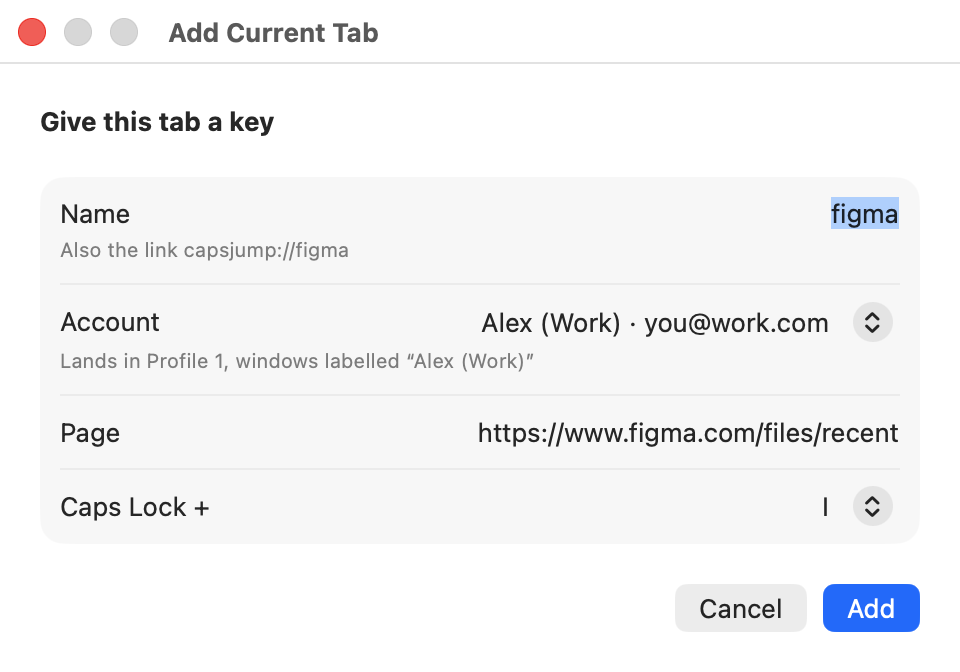
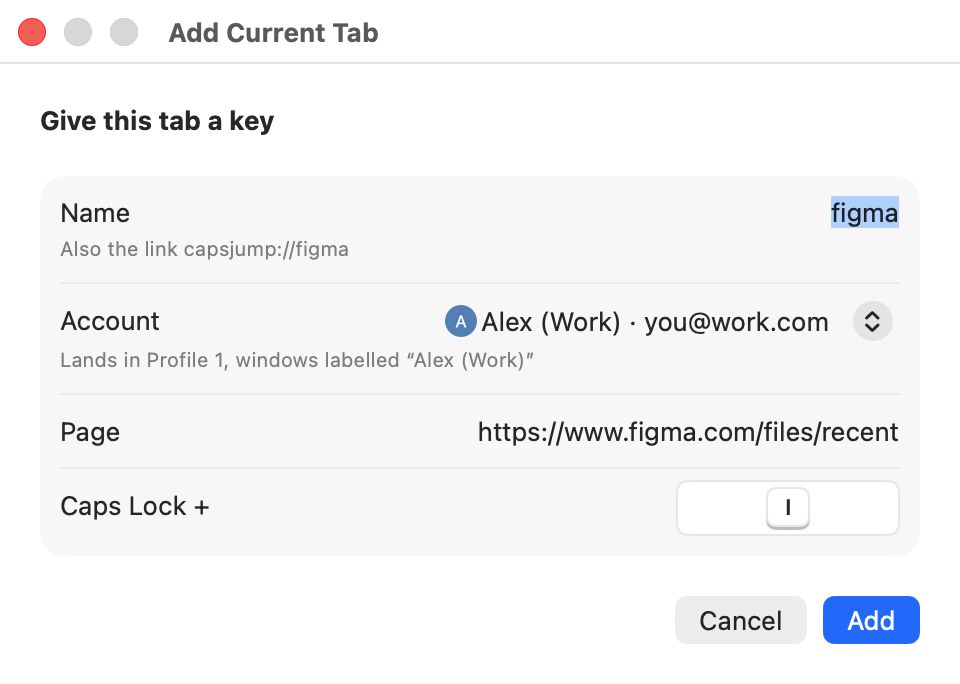
docs: the site and README show account pictures and the key field (#27)

diff --git a/site/index.html b/site/index.html
@@ -14,7 +14,7 @@
   <meta property="og:image" content="https://stigmer.github.io/capsjump/card.png">
   <meta property="og:image:width" content="1200">
   <meta property="og:image:height" content="630">
-  <meta property="og:image:alt" content="CapsJump's config window: every key as a keycap with the app's or the site's own icon and the site's account">
+  <meta property="og:image:alt" content="CapsJump's config window: every key as a keycap with the app's or the site's own icon and the account's picture, and the picked key's field waiting for a new key">
   <meta name="twitter:card" content="summary_large_image">
   <link rel="icon" href="icon.svg" type="image/svg+xml">
   <link rel="apple-touch-icon" href="icon.png">
@@ -80,7 +80,7 @@
       </article>
       <article>
         <h2>Windows</h2>
-        <p><kbd>Caps</kbd> + an arrow sends the front window to that half of the screen: <kbd>←</kbd> <kbd>→</kbd> <kbd>↑</kbd> <kbd>↓</kbd>. <kbd>Caps</kbd> + <kbd>F</kbd> and it goes big. Rather other keys? Pick them, or turn any off.</p>
+        <p><kbd>Caps</kbd> + an arrow sends the front window to that half of the screen: <kbd>←</kbd> <kbd>→</kbd> <kbd>↑</kbd> <kbd>↓</kbd>. <kbd>Caps</kbd> + <kbd>F</kbd> and it goes big. Rather other keys? Press the one you want, or turn any off.</p>
       </article>
       <article>
         <h2>Links</h2>
@@ -94,28 +94,28 @@
       <figure class="shot">
         <picture>
           <source media="(prefers-color-scheme: dark)" srcset="editor-keys-dark.png">
-          <img src="editor-keys.png" width="900" height="600" loading="lazy" alt="The config window on Keys: a sidebar with Sites, Keys and Windows, every key as a keycap with the app's icon or the site's own icon and its account, and the picked key, Caps Lock + G jumping to github, open for editing">
+          <img src="editor-keys.png" width="900" height="600" loading="lazy" alt="The config window on Keys: a sidebar with Sites, Keys and Windows, every key as a keycap with the app's icon or the site's own icon and its account's picture, and the picked key, Caps Lock + G jumping to github, its key field saying Press a key and, under it, E already jumps to mail, you@work.com">
         </picture>
-        <figcaption>Every key that takes you somewhere, on one list in keyboard order. Pick one and change what it does; the app's or the site's own icon says it found the right one. Type to search.</figcaption>
+        <figcaption>Every key that takes you somewhere, on one list in keyboard order. To change a key, click it and press the new one, with Caps Lock or without; a key that's taken says what it does already. Type to search.</figcaption>
       </figure>
       <figure class="shot">
         <picture>
           <source media="(prefers-color-scheme: dark)" srcset="editor-sites-dark.png">
-          <img src="editor-sites.png" width="900" height="600" loading="lazy" alt="The config window on Sites: each site with its own icon, its Chrome account, its host and the keys that land there, a globe for a site Chrome hasn't shown yet, and github open with its account, page and key">
+          <img src="editor-sites.png" width="900" height="600" loading="lazy" alt="The config window on Sites: each site with its own icon, its Chrome account and that account's picture, its host and the keys that land there, a globe for a site Chrome hasn't shown yet, and github open with its Account menu showing each account with its picture">
         </picture>
-        <figcaption>Each site with its own icon, its Chrome account and the keys that land on it. Rename one and its keys come along.</figcaption>
+        <figcaption>Each site with its own icon, its Chrome account (with the picture Chrome shows for it) and the keys that land on it. Rename one and its keys come along.</figcaption>
       </figure>
       <figure class="shot">
         <picture>
           <source media="(prefers-color-scheme: dark)" srcset="editor-windows-dark.png">
           <img src="editor-windows.png" width="900" height="600" loading="lazy" alt="The config window on Windows: left half, right half, top half, bottom half and whole screen, each with its key, and Top half open with a picture of the screen's upper half and Caps Lock + up arrow">
         </picture>
-        <figcaption>Every move a key can make, with the key that makes it. Change one, or turn it off.</figcaption>
+        <figcaption>Every move a key can make, with the key that makes it. Press a new one, or Delete to turn it off.</figcaption>
       </figure>
       <figure class="shot shot-small">
         <picture>
           <source media="(prefers-color-scheme: dark)" srcset="add-tab-dark.png">
-          <img src="add-tab.png" width="480" height="336" loading="lazy" alt="Add Current Tab: a Figma tab becomes a site named figma, in the Work account, on Caps Lock + I">
+          <img src="add-tab.png" width="480" height="336" loading="lazy" alt="Add Current Tab: a Figma tab becomes a site named figma, in the Work account with its picture, on Caps Lock + I">
         </picture>
         <figcaption>Page open in Chrome? <strong>Add Current Tab…</strong> names it, knows the account, offers a free key. Click Add.</figcaption>
       </figure>
@@ -158,7 +158,7 @@ capsjump init</code></pre>
       <h2>Good to know</h2>
       <ul>
         <li><strong>Chrome only, for sites.</strong> Site keys work with Google Chrome and its accounts; app, window and link keys work with anything.</li>
-        <li><strong>Site icons come from Chrome.</strong> Each site shows the icon Chrome has already saved on your Mac for that account. Nothing is fetched; a site Chrome hasn't shown there yet keeps a globe.</li>
+        <li><strong>Site icons and account pictures come from Chrome.</strong> Each site shows the icon Chrome has already saved on your Mac for that account, and each account the picture Chrome shows for it. Nothing is fetched; a site Chrome hasn't shown there yet keeps a globe.</li>
         <li><strong>Windows stay on their screen.</strong> A window snaps within the screen it is on; moving it to another screen isn't a key yet.</li>
         <li><strong>Not while typing a password.</strong> macOS keeps every app's shortcuts out of password fields; the keys work again as soon as you leave one.</li>
         <li><strong>Miss SHOUTING?</strong> Hold Shift, like everyone else. Or pause or quit CapsJump from its icon in the menu bar, and Caps Lock goes back to its old job at once.</li>

diff --git a/README.md b/README.md
@@ -36,13 +36,13 @@ The quickest way: open a page in Chrome and pick **Add Current Tab…** from Cap
 <p align="center">
   <picture>
     <source media="(prefers-color-scheme: dark)" srcset="site/editor-keys-dark.png">
-    <img src="site/editor-keys.png" width="840" alt="Edit Config…, Keys: each key as a keycap with the app's or the site's own icon and the site's account, and the picked key open for editing">
+    <img src="site/editor-keys.png" width="840" alt="Edit Config…, Keys: each key as a keycap with the app's or the site's own icon and the account's picture, and the picked key's field waiting for a new key">
   </picture>
 </p>
 <p align="center">
   <picture>
     <source media="(prefers-color-scheme: dark)" srcset="site/editor-sites-dark.png">
-    <img src="site/editor-sites.png" width="840" alt="Edit Config…, Sites: each site with its own icon, account, page and keys, and the picked site open for editing">
+    <img src="site/editor-sites.png" width="840" alt="Edit Config…, Sites: each site with its own icon, its account and the account's picture, page and keys, and the picked site's Account menu open">
   </picture>
 </p>
 <p align="center">
